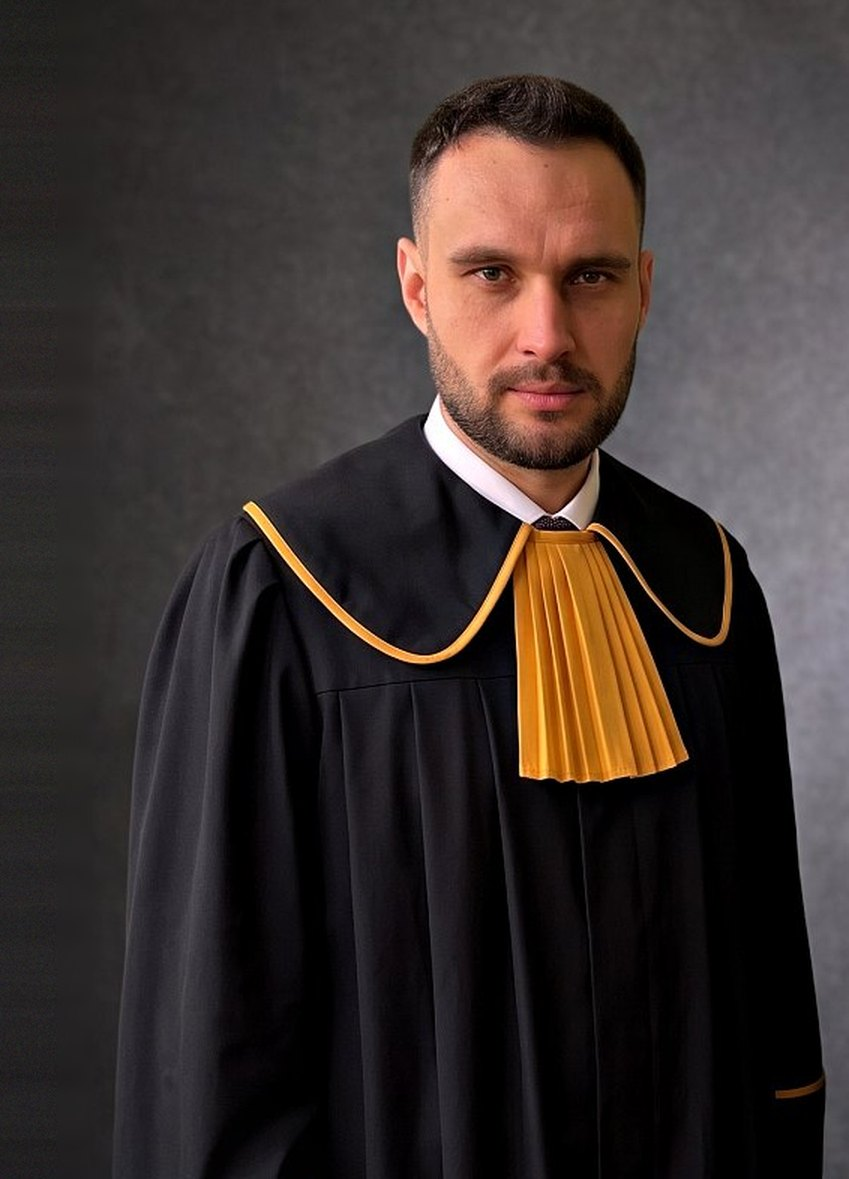
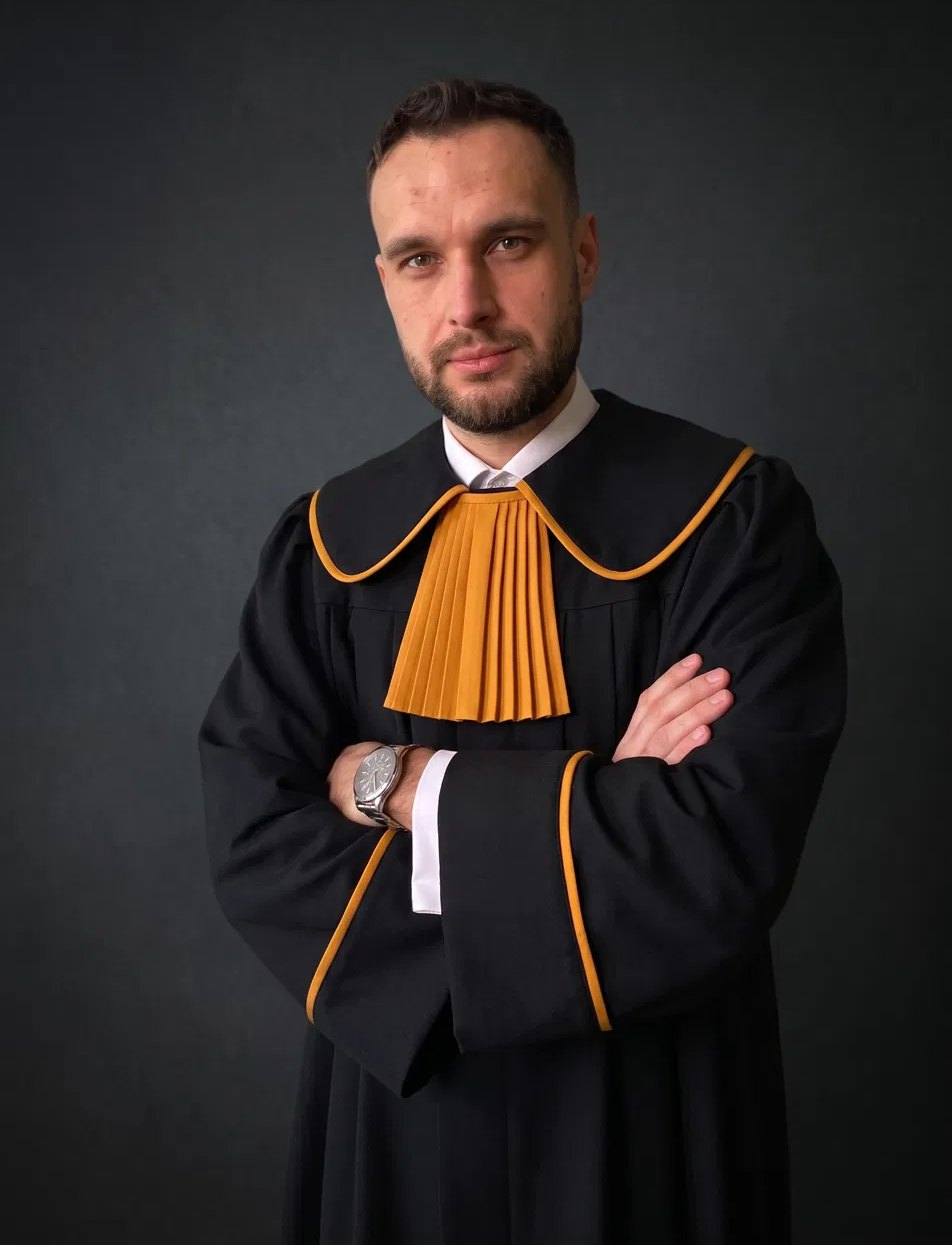
Zespół: nowe zdjęcie Michała Ruszniaka
Claude-Session: https://claude.ai/code/session_01P3FunjzXZg2xqPaovLAGa3

diff --git a/zespol/index.html b/zespol/index.html
@@ -51,7 +51,7 @@
 </div></section>
 <section class="wrap team" aria-label="Doradcy podatkowi">
     <div class="team-card">
-      <picture><source srcset="/img/michal-zespol.webp" type="image/webp"><img class="team-photo" style="object-position:78% 15%" src="/img/michal-zespol.jpg" alt="Michał Ruszniak, doradca podatkowy, prezes zarządu RKDP, Wrocław" width="849" height="1179" loading="lazy"></picture>
+      <picture><source srcset="/img/michal-zespol.webp" type="image/webp"><img class="team-photo" style="object-position:57% 20%" src="/img/michal-zespol.jpg" alt="Michał Ruszniak, doradca podatkowy, prezes zarządu RKDP, Wrocław" width="952" height="1245" loading="lazy"></picture>
       <div class="team-body">
         <span class="advisor-role">Doradca Podatkowy · Prezes Zarządu</span>
         <h3 class="team-name">Michał Ruszniak</h3>

diff --git a/index.html b/index.html
@@ -871,7 +871,7 @@ a.spec h3{color:var(--bg)}
 
   <section id="zespol" class="wrap team">
     <div class="team-card">
-      <picture><source srcset="/img/michal-zespol.webp" type="image/webp"><img class="team-photo" style="object-position:78% 15%" src="/img/michal-zespol.jpg" alt="Michał Ruszniak, doradca podatkowy, prezes zarządu RKDP, Wrocław" width="849" height="1179" loading="lazy"></picture>
+      <picture><source srcset="/img/michal-zespol.webp" type="image/webp"><img class="team-photo" style="object-position:57% 20%" src="/img/michal-zespol.jpg" alt="Michał Ruszniak, doradca podatkowy, prezes zarządu RKDP, Wrocław" width="952" height="1245" loading="lazy"></picture>
       <div class="team-body">
         <span class="advisor-role">Doradca Podatkowy · Prezes Zarządu</span>
         <h3 class="team-name">Michał Ruszniak</h3>
